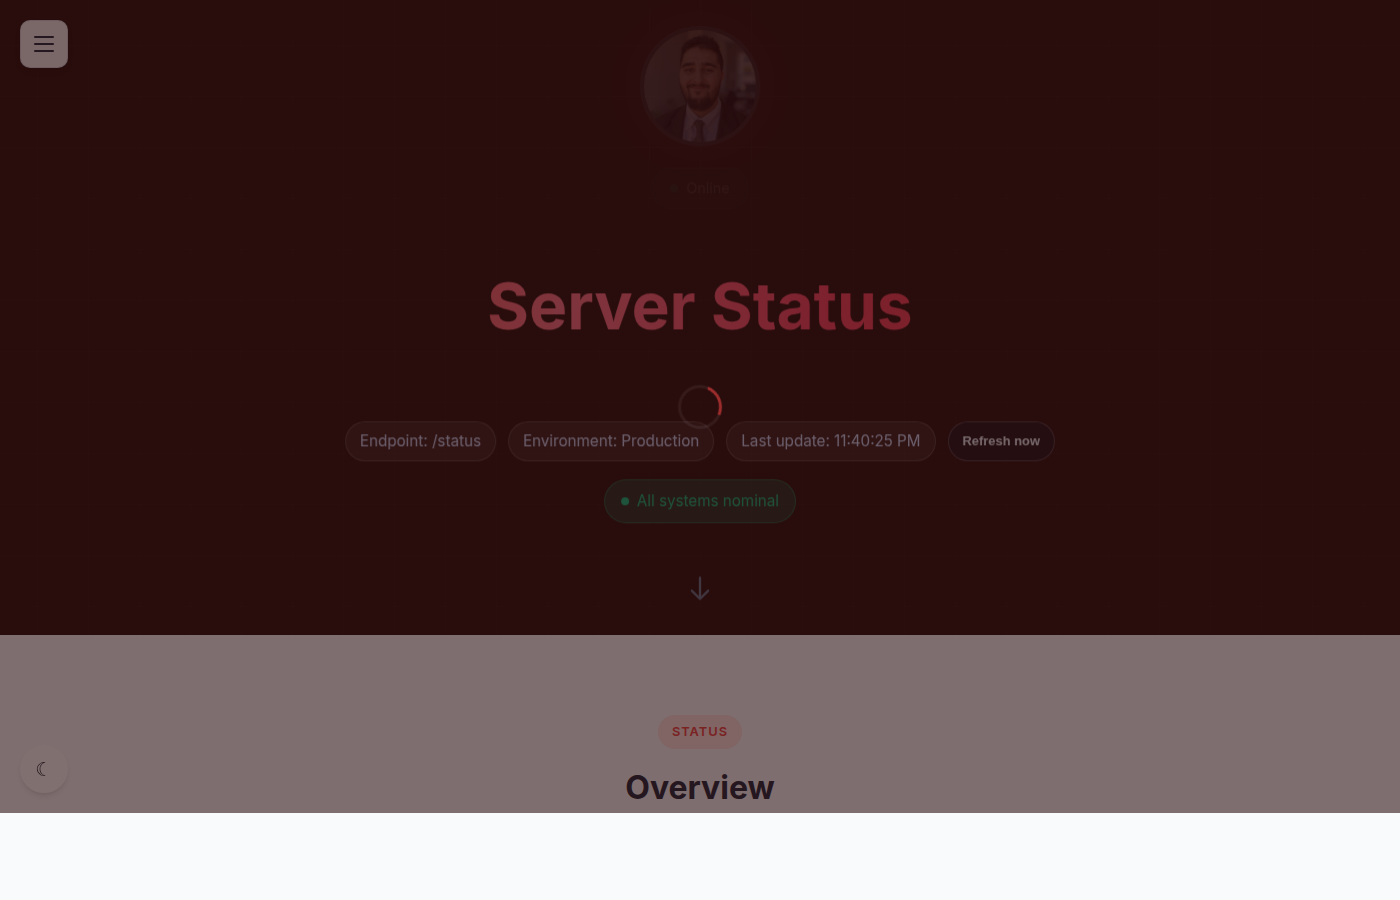
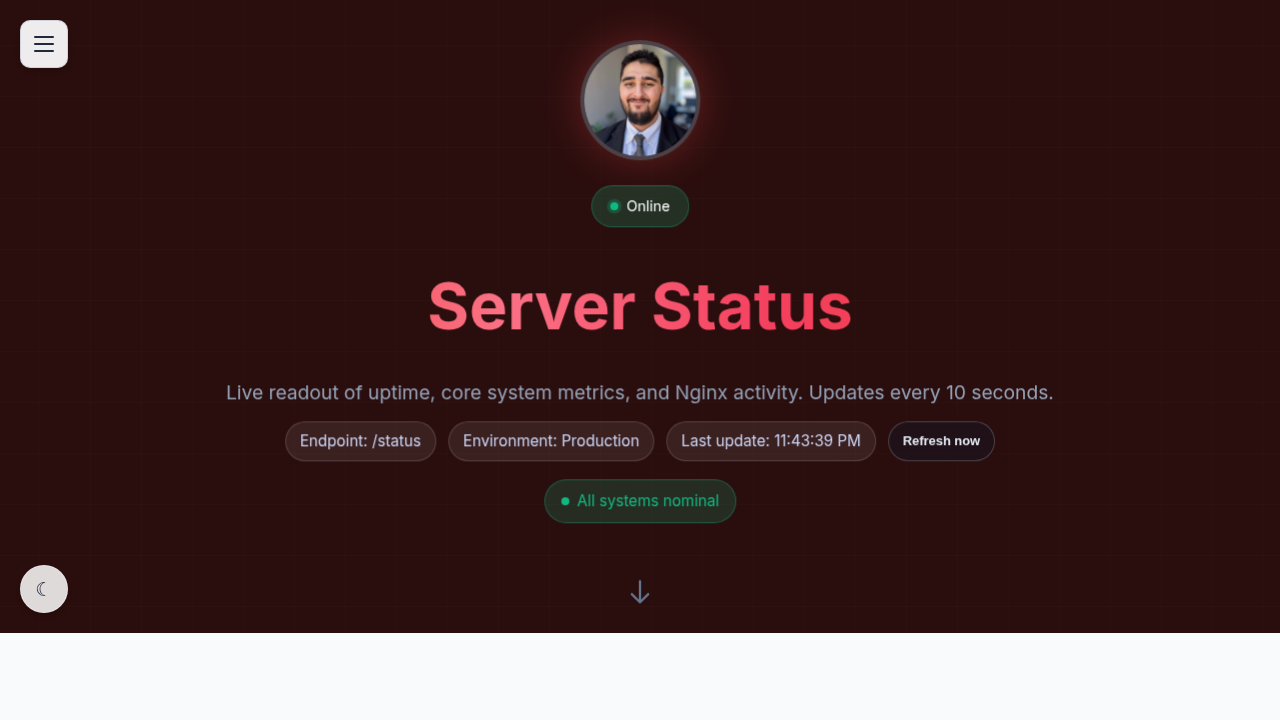
Enforce 720p screenshots
Changelog: resize CLI screenshots to 1280x720.

Changed region(s): [[0.0, 0.3972, 1.0, 0.9167], [0.3438, 0.0306, 0.6562, 0.3667], [0.0, 0.0, 0.0625, 0.0917]]

diff --git a/scripts/screenshot-cli.js b/scripts/screenshot-cli.js
@@ -10,9 +10,33 @@ const baseUrl = baseUrlFlag ? baseUrlFlag.split('=')[1] : 'https://asharahmed.co
 const outputDirFlag = args.find(arg => arg.startsWith('--out-dir='));
 const outputDir = outputDirFlag ? outputDirFlag.split('=')[1] : path.resolve('assets/screenshots');
 const windowSizeFlag = args.find(arg => arg.startsWith('--window-size='));
-const windowSize = windowSizeFlag ? windowSizeFlag.split('=')[1] : '1400,900';
+const windowSize = windowSizeFlag ? windowSizeFlag.split('=')[1] : '1280,720';
+const resizeFlag = args.find(arg => arg.startsWith('--resize='));
+const resize = resizeFlag ? resizeFlag.split('=')[1] : '1280x720';
 
 const chromiumPath = process.env.CHROMIUM_BIN || chromium.executablePath();
+
+const resizeImage = outputPath => {
+  if (!resize) {
+    return;
+  }
+  const [width, height] = resize.split('x').map(Number);
+  if (!Number.isFinite(width) || !Number.isFinite(height)) {
+    return;
+  }
+  const script = `
+from PIL import Image
+path = r"${outputPath}"
+img = Image.open(path)
+img = img.resize((${width}, ${height}), Image.LANCZOS)
+img.save(path)
+`;
+  try {
+    execFileSync('python3', ['-c', script], { stdio: 'ignore' });
+  } catch (error) {
+    console.warn('screenshot: resize skipped (Pillow missing).');
+  }
+};
 
 const runShot = (url, outputPath) => {
   execFileSync(chromiumPath, [
@@ -22,12 +46,14 @@ const runShot = (url, outputPath) => {
     '--disable-dev-shm-usage',
     '--no-sandbox',
     '--disable-setuid-sandbox',
+    '--force-device-scale-factor=1',
     '--run-all-compositor-stages-before-draw',
     `--window-size=${windowSize}`,
     '--virtual-time-budget=12000',
     `--screenshot=${outputPath}`,
     url
   ], { stdio: 'inherit' });
+  resizeImage(outputPath);
 };
 
 const normalizeUrl = url => url.replace(/\/$/, '');
